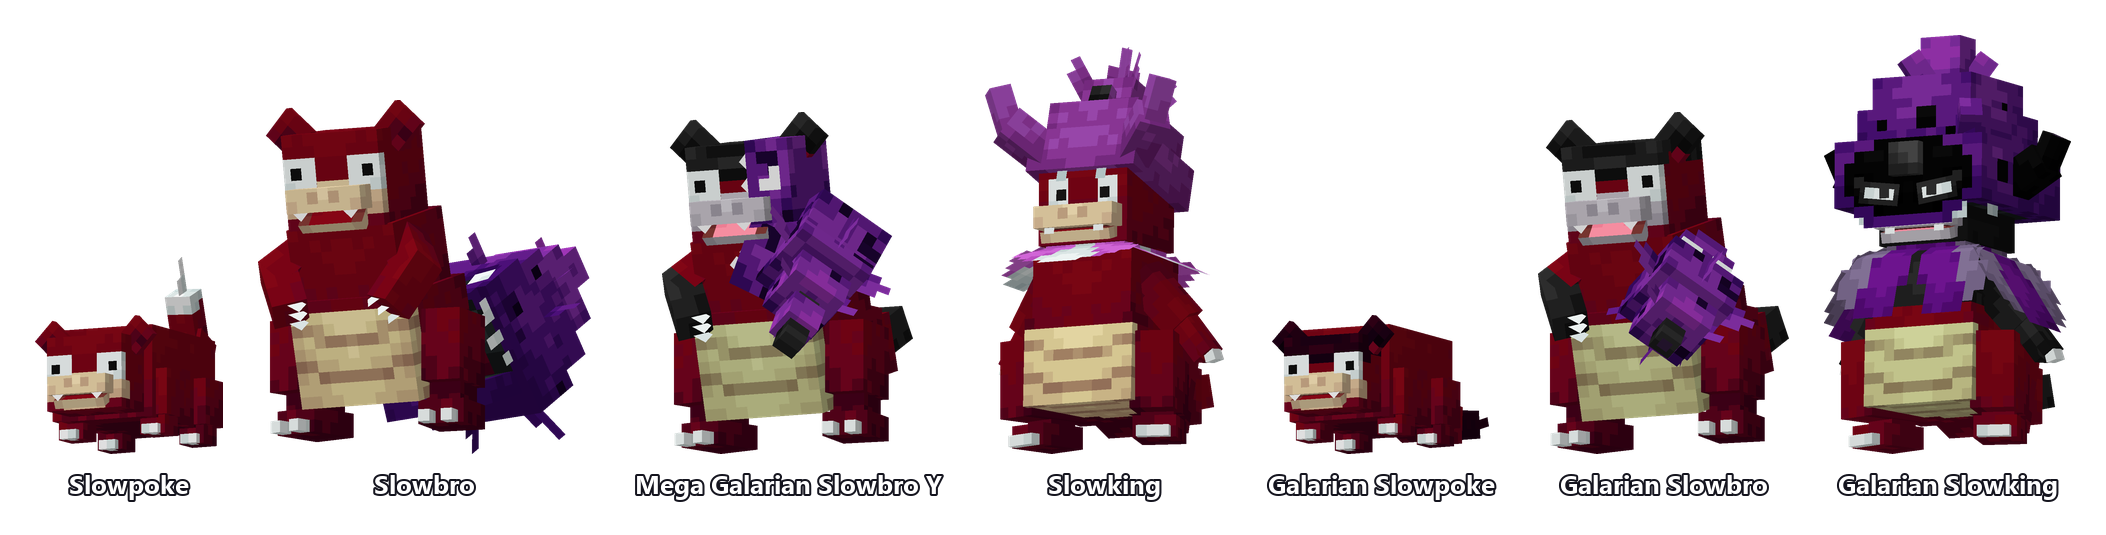
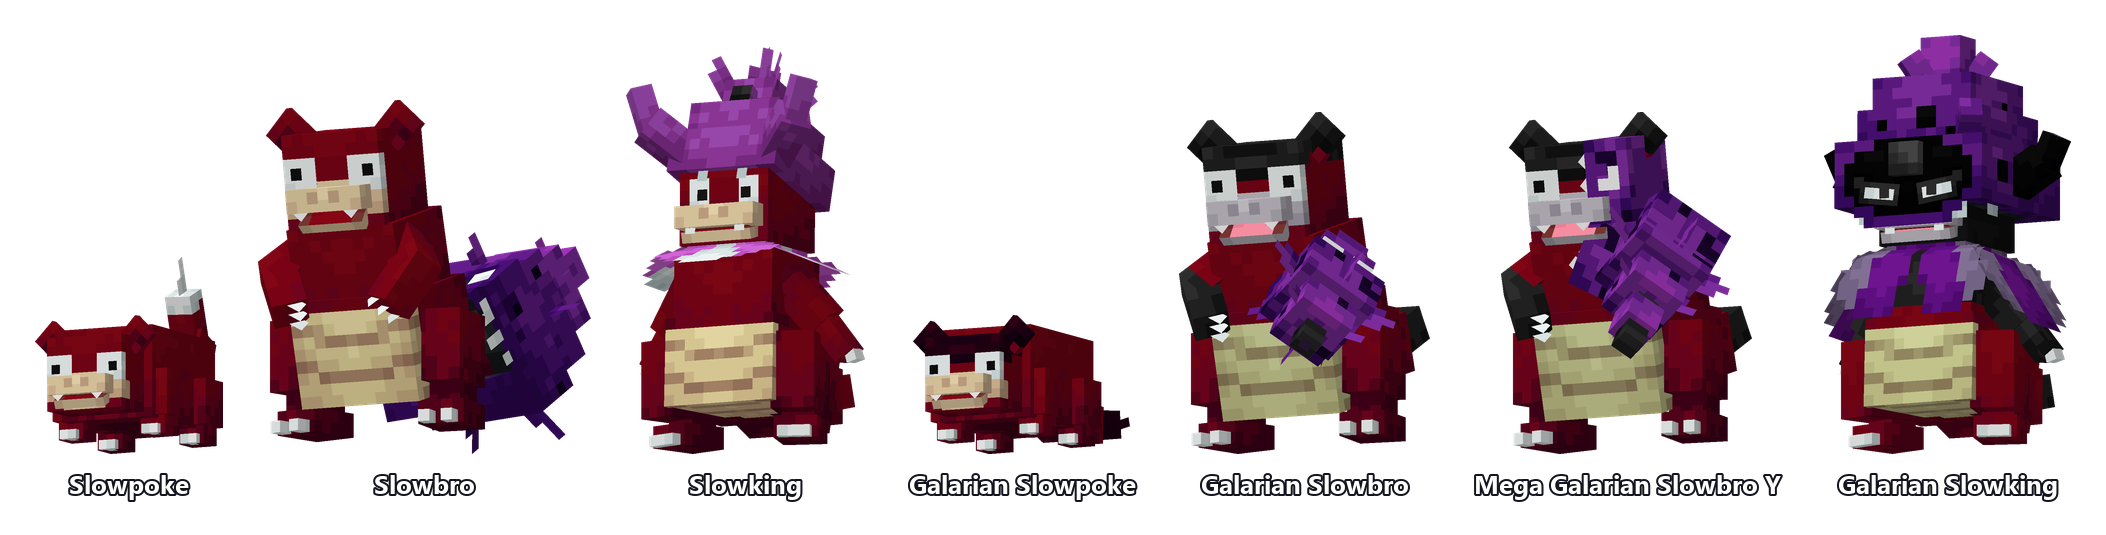
Radiants

Changed region(s): [[0.2778, 0.0897, 0.8642, 0.9271]]

diff --git a/pokemon/radiant-gallery.md b/pokemon/radiant-gallery.md
@@ -46,7 +46,7 @@ Lots of other Pokémon can roll as Radiant as well, but they look the same as th
 
 <figure><img src="../.gitbook/assets/radiants/radiant_bellsprout.png" alt="Radiant Bellsprout, Weepinbell, Victreebel, Mega Victreebel"><figcaption><p>Bellsprout, Weepinbell, Victreebel, Mega Victreebel</p></figcaption></figure>
 
-<figure><img src="../.gitbook/assets/radiants/radiant_slowpoke.png" alt="Radiant Slowpoke, Slowbro, Mega Galarian Slowbro Y, Slowking, Galarian Slowpoke, Galarian Slowbro, Galarian Slowking"><figcaption><p>Slowpoke, Slowbro, Mega Galarian Slowbro Y, Slowking, Galarian Slowpoke, Galarian Slowbro, Galarian Slowking</p></figcaption></figure>
+<figure><img src="../.gitbook/assets/radiants/radiant_slowpoke.png" alt="Radiant Slowpoke, Slowbro, Slowking, Galarian Slowpoke, Galarian Slowbro, Mega Galarian Slowbro Y, Galarian Slowking"><figcaption><p>Slowpoke, Slowbro, Slowking, Galarian Slowpoke, Galarian Slowbro, Mega Galarian Slowbro Y, Galarian Slowking</p></figcaption></figure>
 
 <figure><img src="../.gitbook/assets/radiants/radiant_doduo.png" alt="Radiant Doduo, Dodrio"><figcaption><p>Doduo, Dodrio</p></figcaption></figure>
 
@@ -212,6 +212,8 @@ Lots of other Pokémon can roll as Radiant as well, but they look the same as th
 
 <figure><img src="../.gitbook/assets/radiants/radiant_mimikyu.png" alt="Radiant Mimikyu"><figcaption><p>Mimikyu</p></figcaption></figure>
 
+<figure><img src="../.gitbook/assets/radiants/radiant_magearna.png" alt="Radiant Magearna, Mega Magearna, Original Color Magearna, Mega Original Color Magearna"><figcaption><p>Magearna, Mega Magearna, Original Color Magearna, Mega Original Color Magearna</p></figcaption></figure>
+
 <figure><img src="../.gitbook/assets/radiants/radiant_marshadow.png" alt="Radiant Marshadow"><figcaption><p>Marshadow</p></figcaption></figure>
 
 <figure><img src="../.gitbook/assets/radiants/radiant_meltan.png" alt="Radiant Meltan, Melmetal"><figcaption><p>Meltan, Melmetal</p></figcaption></figure>
@@ -228,6 +230,8 @@ Lots of other Pokémon can roll as Radiant as well, but they look the same as th
 <figure><img src="../.gitbook/assets/radiants/radiant_hatenna.png" alt="Radiant Hatenna, Hattrem, Hatterene"><figcaption><p>Hatenna, Hattrem, Hatterene</p></figcaption></figure>
 
 <figure><img src="../.gitbook/assets/radiants/radiant_milcery.png" alt="Radiant Milcery, Alcremie"><figcaption><p>Milcery, Alcremie</p></figcaption></figure>
+
+<figure><img src="../.gitbook/assets/radiants/radiant_morpeko.png" alt="Radiant Morpeko, Morpeko (Hangry)"><figcaption><p>Morpeko, Morpeko (Hangry)</p></figcaption></figure>
 
 <figure><img src="../.gitbook/assets/radiants/radiant_duraludon.png" alt="Radiant Duraludon, Archaludon"><figcaption><p>Duraludon, Archaludon</p></figcaption></figure>
 
@@ -261,6 +265,8 @@ Lots of other Pokémon can roll as Radiant as well, but they look the same as th
 <figure><img src="../.gitbook/assets/radiants/radiant_koraidon.png" alt="Radiant Koraidon"><figcaption><p>Koraidon</p></figcaption></figure>
 
 <figure><img src="../.gitbook/assets/radiants/radiant_miraidon.png" alt="Radiant Miraidon"><figcaption><p>Miraidon</p></figcaption></figure>
+
+<figure><img src="../.gitbook/assets/radiants/radiant_walkingwake.png" alt="Radiant Walking Wake"><figcaption><p>Walking Wake</p></figcaption></figure>
 
 {% endtab %}
 
